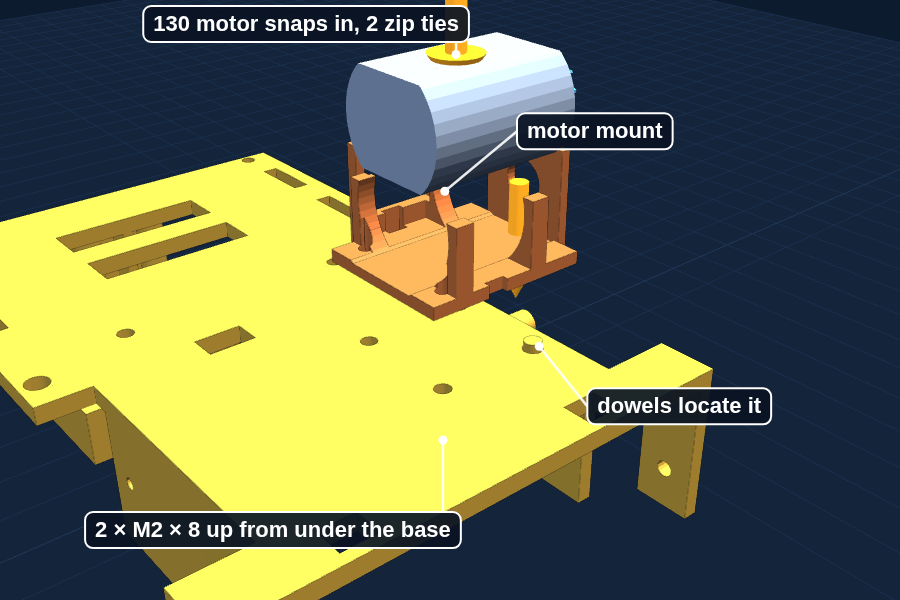
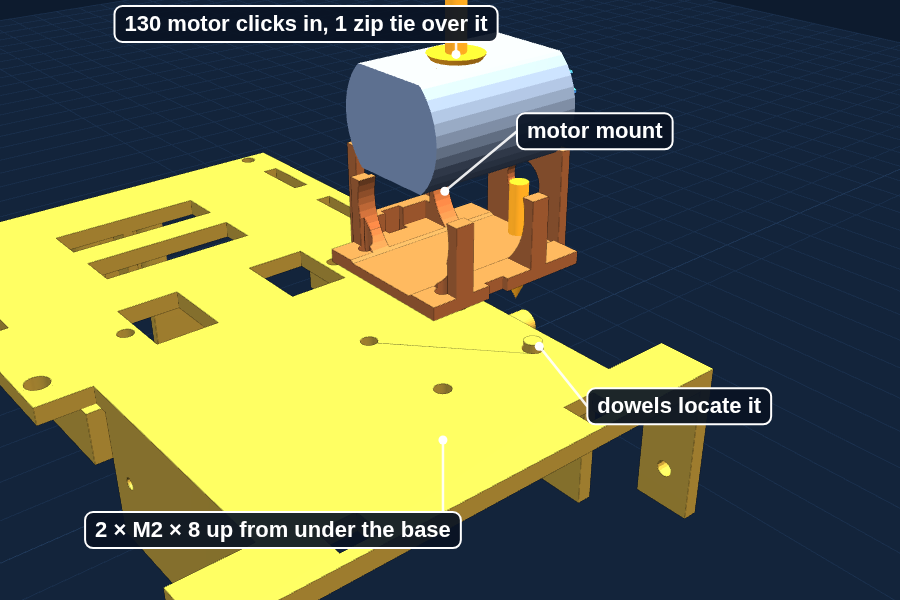
Build Guide Step 9: brush motor mount sequence. Motor goes in the mount before its gear (the 11 mm gear cannot pass the 7 mm hole in the mount's end wall); rocker switch first; one zip tie threaded under the mount floor before the motor, head on top; gear pressed on with the motor supported; dowels 
Claude-Session: https://claude.ai/code/session_014EHP5UkkdVfH3KZrtdkB1T

Changed region(s): [[0.1244, 0.0, 0.56, 0.09], [0.1244, 0.48, 0.28, 0.6], [0.28, 0.42, 0.3733, 0.51]]

diff --git a/src/app/projects/nolan/dusty/build/guide/steps.js b/src/app/projects/nolan/dusty/build/guide/steps.js
@@ -59,7 +59,7 @@ export const SCREWS = [
   ['Sensor arms', 'M2 × 8', 2, 'Through the slot, nut on the inside', 6],
   ['Sensors in the arms', 'M2 × 6', 2, 'With a nut', 6],
   ['Whisker switch', 'M2 × 10', 2, 'With nuts', 8],
-  ['Brush motor mount', 'M2 × 8', 2, 'Up from under the base', 9],
+  ['Brush motor mount', 'M2 × 8', 2, 'Up from under the base, before the roller goes in', 9],
   ['Big gear washer', 'M2 × 6', 1, 'Into the end of the gear peg', 9],
 ];
 
@@ -242,15 +242,21 @@ export const STEPS = {
     title: 'Build the brush and the gears',
     time: 'About 2 hours',
     intro: 'Now Dusty earns its name. The brush motor spins far too fast for a brush, so three printed gears slow it down before it reaches the roller.',
-    need: ['Batch 4 parts and the BATCH 4 cup', '130 motor, rocker switch', 'Pipe cleaners, 2 zip ties, screw-terminal jack', '2 × M2 × 8, 1 × M2 × 6', 'Superglue (grown-up)'],
+    need: ['Batch 4 parts and the BATCH 4 cup (motor gear, washer, collar, 2 dowels)', '130 motor, rocker switch', 'Pipe cleaners, 1 small zip tie (plus a spare), screw-terminal jack', '2 × M2 × 8, 1 × M2 × 6', 'Scissors or flush cutters, a folded towel', 'Superglue (grown-up)'],
     draw: [[dr('gear-train'), 'The brush gear train, seen from the right side of the robot.']],
     sub: [
       ['Cut pipe cleaners into pieces about 30 mm long and push one through each hole in the roller.', 'Center each piece so the same length sticks out both sides.', r('g9-bristles')],
-      ['Push the motor gear onto the motor shaft.', 'Stop when the shaft tip just peeks through. If it slips, a grown-up adds a tiny drop of superglue, kept off the teeth.', h('b1-s2b')],
-      ['Snap the 130 motor into the motor mount, shaft toward the right side, and hold it with two zip ties. Put the two dowels in the base, set the motor mount on them, and drive two M2 × 8 screws up from under the base.', '', r('g9-mount')],
-      ['Slide the big gear onto the peg on the right side plate, big side first. Add the washer and an M2 × 6 screw into the end of the peg.', 'The gear must spin freely. If it drags, back the screw off a quarter turn.', r('g9-gear')],
+      ['Check the motor has no gear on its shaft yet.', 'The gear will not fit through the hole in the right-hand wall of the mount, so it goes on after the motor is in. If the gear from the Batch 1 test is still on, wiggle it straight off. If it cracks, a grown-up prints a new one (dusty-pinion-revA5.stl, a few minutes).'],
+      ['Snap the rocker switch into the square hole in the back wall of the motor mount.', 'Easier now, before anything else is in the way.'],
+      ['Thread the zip tie before the motor goes in. Push its tail down through one slot in the floor of the mount, along underneath the floor, and up through the slot on the other side of the curved motor cradles. Leave a big loose loop over the top.', 'The two slots are on either side of the motor cradles, about halfway along. The flat band runs under the floor and the square head stays on top, beside the motor, never underneath.'],
+      ['Put the motor into the mount, through the loop, shaft pointing to the right side. Tip the shaft end in first so the shaft and the round collar around it go into the hole in the right-hand wall, then press the back end down until it clicks into the two curved cradles.', 'The flat sides of the motor face up and down. The collar sits in the hole, and the back of the motor rests in the rear cradle.'],
+      ['Pull the zip tie tight over the motor and snip off the tail.', 'Snug so the motor cannot lift or slide backward. Cut the tail close to the head so it cannot touch the gears.'],
+      ['Press the motor gear onto the shaft where it sticks out of the right-hand wall.', 'Hold the back of the motor with your other thumb so it does not slide back. Stop when the shaft tip just peeks through the gear and a paper-thin gap is left between the gear and the wall. If it slips, a grown-up adds a tiny drop of superglue, kept off the teeth.', h('b1-s2b')],
+      ['Push the two dowels into the two small holes in the top of the base, to the right of center near the front.', 'They stick up a little over 1 mm. They are tiny: use the pliers, and do this over the towel.'],
+      ['Set the motor mount on the dowels so they go into the two holes under its right edge. The mount sits flat, gear on the right.', 'The dowels put the motor gear exactly where the big gear will be. If the mount rocks, a dowel is not in its hole.', r('g9-mount')],
+      ['Lay Dusty on its side on the folded towel. Hold the mount down and drive two M2 × 8 screws up from under the base, through the two holes just right of center near the front, into the mount.', 'Do this now, before the roller goes in: the roller covers both holes. Turn each screw a little at a time, back and forth, so the mount pulls down evenly. The zip tie band under the mount makes a tiny bump; that is expected. Snug, then stop.'],
+      ['Slide the big gear onto the peg on the right side plate, big side first. Add the washer and an M2 × 6 screw into the end of the peg.', 'The gear must spin freely. If it drags, back the screw off a quarter turn. Turn it slowly by hand: the motor gear should turn with it all the way round without catching or clicking. If it catches, check the mount sits flat on its dowels.', r('g9-gear')],
       ['Slide the axle in from the left side plate, through the roller, and out the right side plate. Push the roller gear onto the right end and the collar onto the left end.', 'The flat side of the axle lines up with the flat inside the roller and the roller gear.', r('g9-axle')],
-      ['Snap the rocker switch into the square hole on the motor mount.', ''],
       ['A grown-up wires the brush: the splitter’s second end to its screw-terminal jack, then through the rocker switch to the motor tabs.', 'Power off while wiring.'],
       ['Switch on and check which way the roller spins.', 'The bristles at the bottom must move backward, toward the tray. Wrong way? Power off, swap the two wires on the motor tabs.', r('g9-done')],
     ],

diff --git a/src/app/projects/nolan/dusty/build/guide/data.js b/src/app/projects/nolan/dusty/build/guide/data.js
@@ -79,7 +79,7 @@ export const BATCHES = [
       },
       {
         t: 'Put the motor gear, washer, collar and both dowels in a cup labeled BATCH 4. Keep the deck post with the deck parts.',
-        tip: 'Wiggle the gear back off the shaft first. It goes on for good in Batch 4.',
+        tip: 'Wiggle the gear back off the shaft first. It goes on for good in Build Step 9, after the motor is in its mount: with the gear on, the motor will not fit through the mount.',
         img: ['b1-s3'],
       },
     ],
@@ -193,7 +193,7 @@ export const BATCHES = [
     ],
     gate: 'The axle fits and the big gear spins freely. Everything waits in the BATCH 4 cup for Step 9.',
     build: [
-      [9, 'Build the brush and the gears (Sat Oct 3)', '130 motor, rocker switch, pipe cleaners, two zip ties, screw-terminal jack, 2 × M2 × 8, 1 × M2 × 6, and the Batch 1 cup'],
+      [9, 'Build the brush and the gears (Sat Oct 3)', '130 motor, rocker switch, pipe cleaners, one small zip tie, screw-terminal jack, 2 × M2 × 8, 1 × M2 × 6, and the Batch 1 cup'],
     ],
   },
   {

diff --git a/tools/dusty-howto/make_guide_scenes.py b/tools/dusty-howto/make_guide_scenes.py
@@ -215,7 +215,7 @@ ms = [P('base'), P('dowel1'), P('dowel2'), P('cradle', (0, 0, cr)), G('130 brush
 for (x, y) in CRADLE_SCREWS:
     ms.append(mesh(screw(8, [x, y, PL_Z0 - 2], [0, 0, 1]), STEEL))
 scene('g9-mount', ms, [A([18, MOT_Y, MOT_Z + cr + 30], [18, MOT_Y, MOT_Z + cr + 16]), A([30, 22, PL_Z1 + cr + 10], [30, 22, PL_Z1 + 4])],
-      [L([18, MOT_Y, MOT_Z + cr + 22], '130 motor snaps in, 2 zip ties', -150, -80),
+      [L([18, MOT_Y, MOT_Z + cr + 22], '130 motor clicks in, 1 zip tie over it', -150, -80),
        L([26, 12.3, PL_Z1 + 1], 'dowels locate it', 140, 60),
        L([8, CRADLE_SCREWS[0][1], PL_Z0 - 6], '2 × M2 × 8 up from under the base', -170, 90),
        L([22, 30, PL_Z1 + cr + 8], 'motor mount', 150, -60)],
